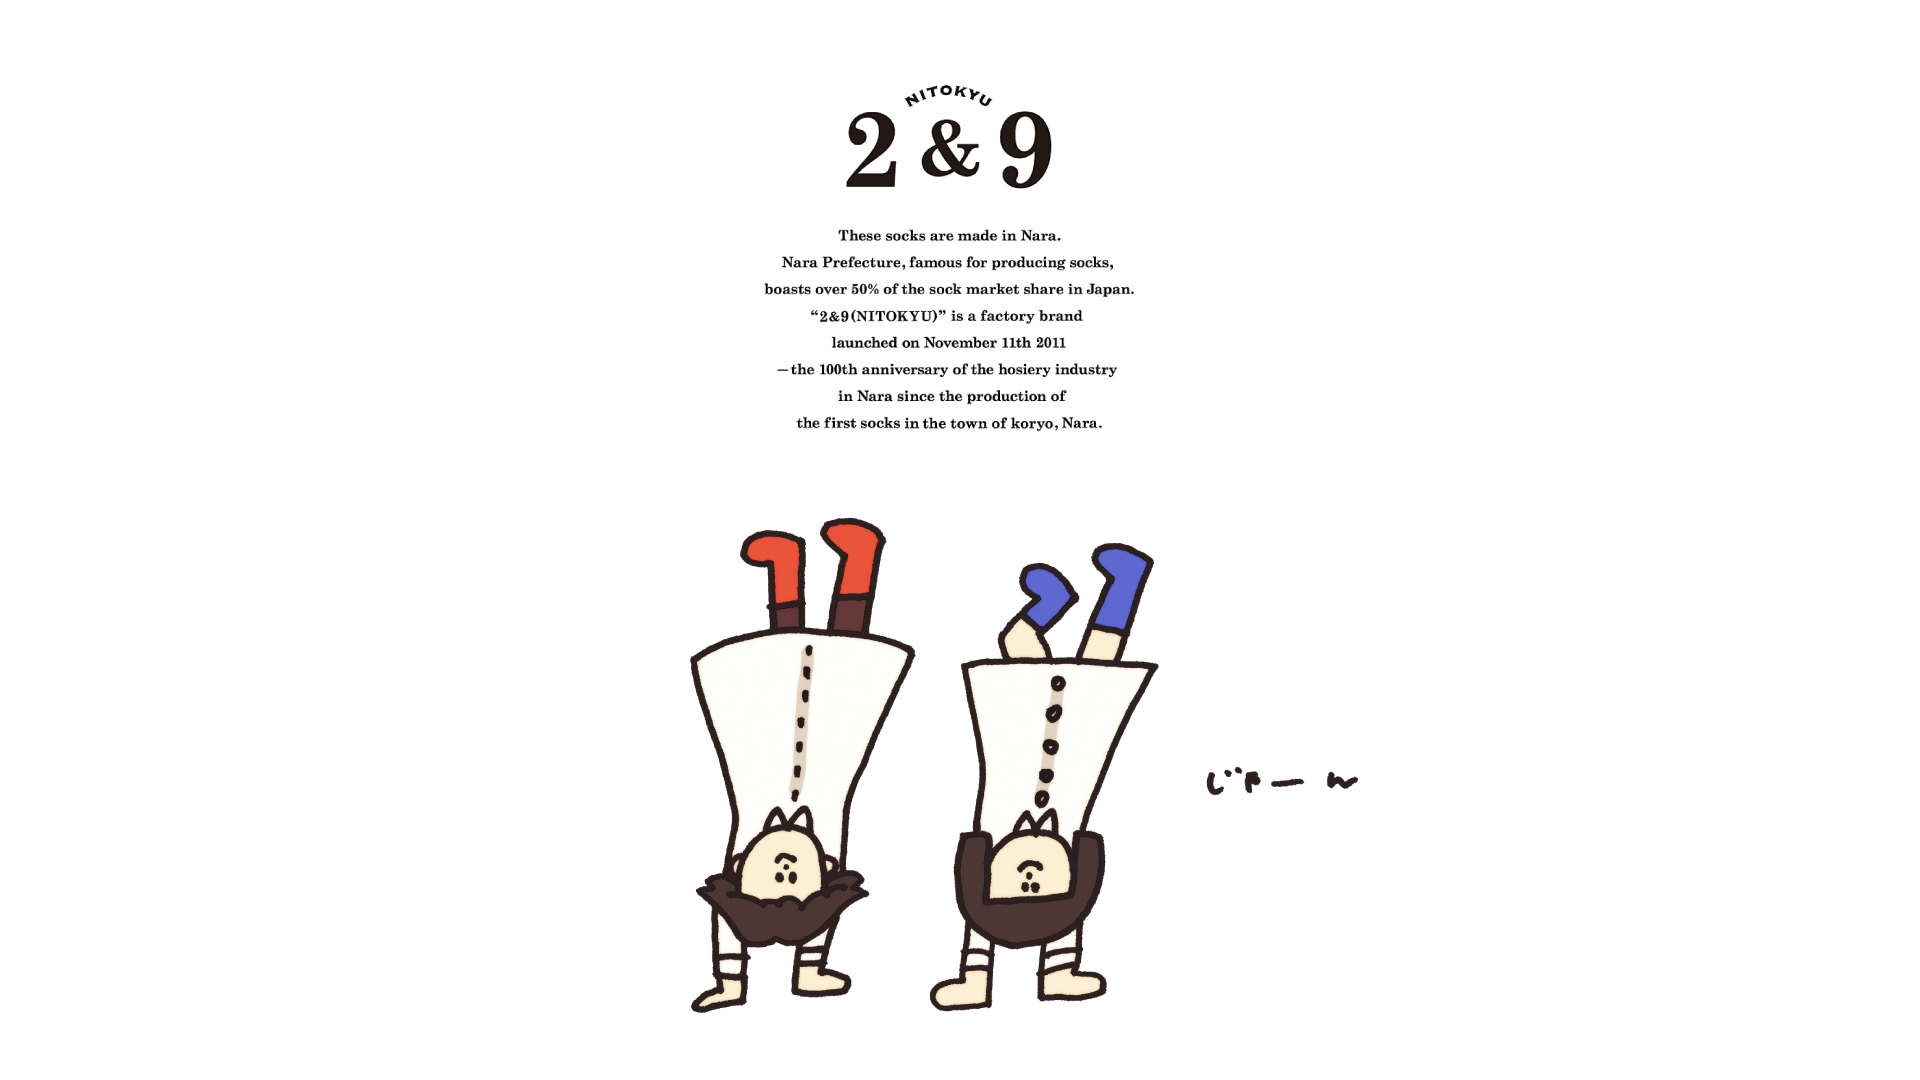
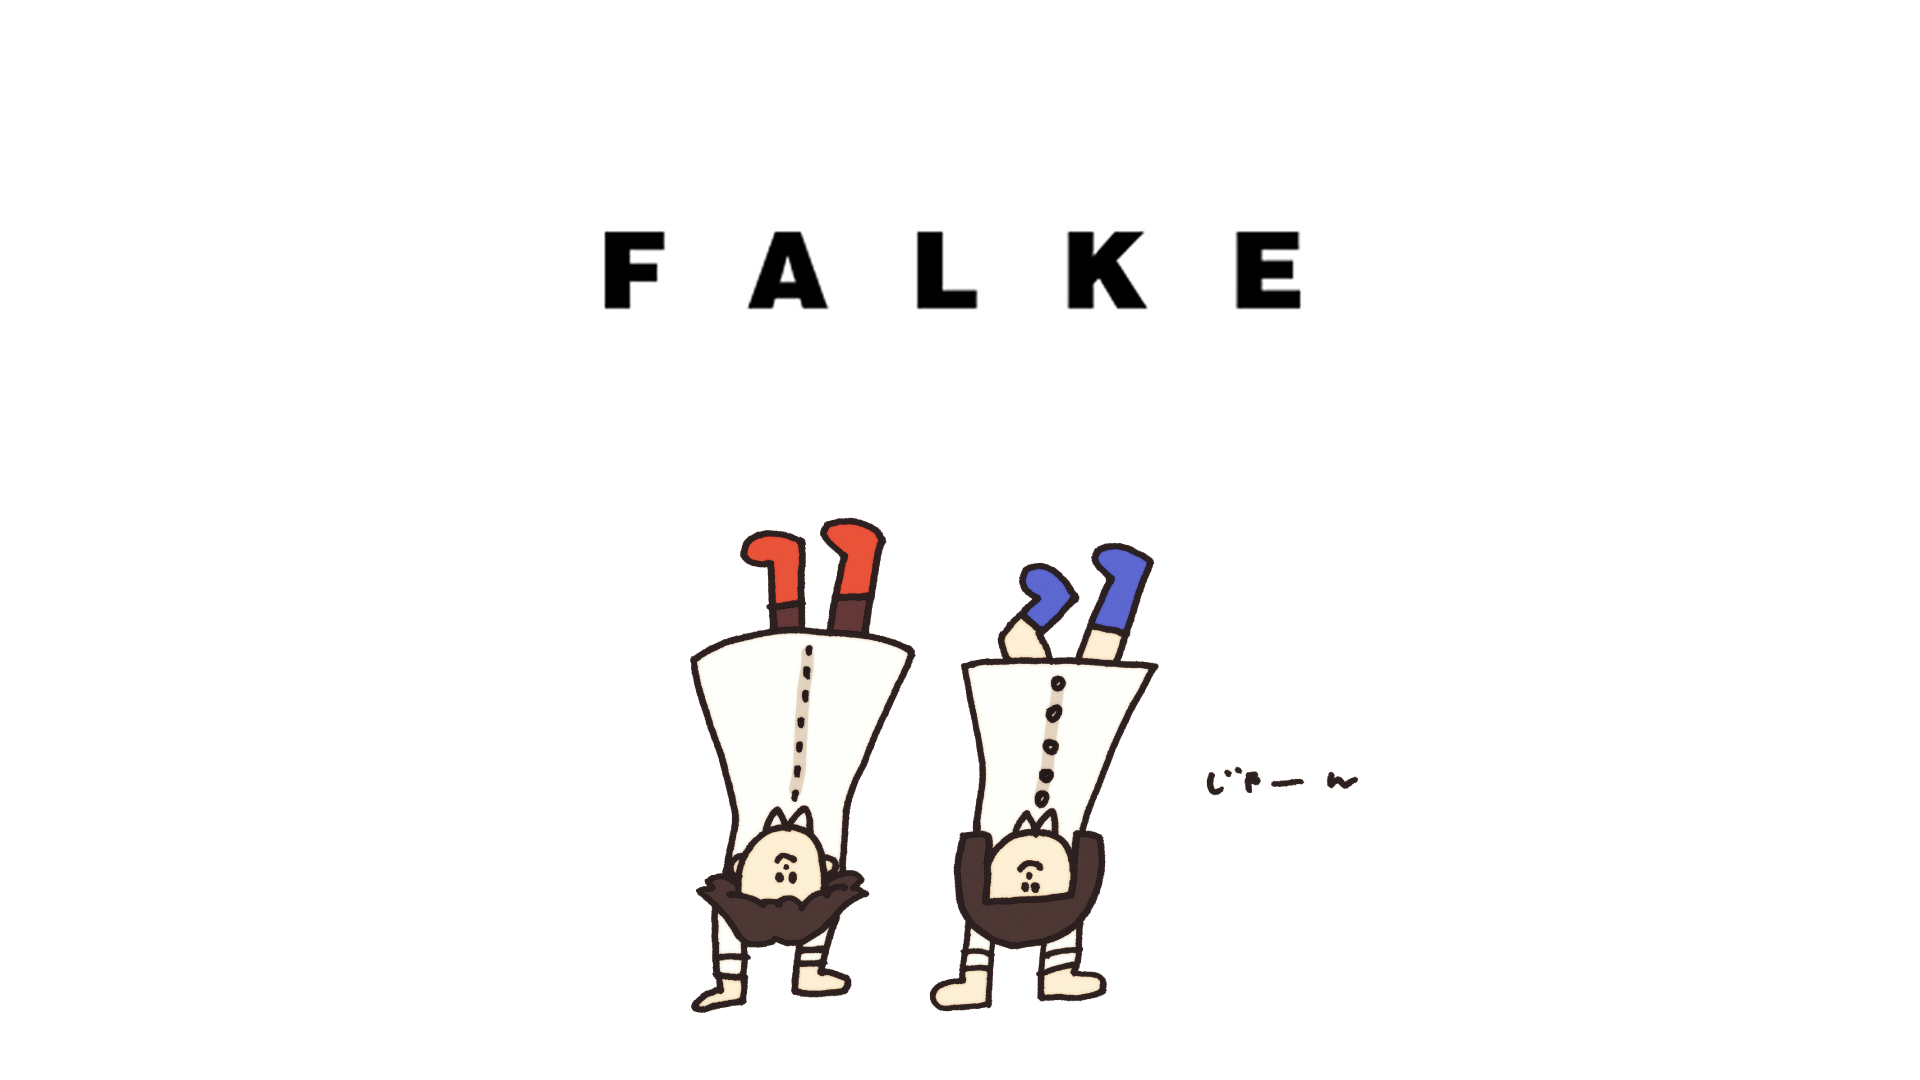
fix

diff --git a/7.html b/7.html
@@ -6,22 +6,15 @@
   <link rel="stylesheet" type="text/css" href="./style.css">
 </head>
 <body>
-  <header>
-    <svg id="q-mark" xmlns="http://www.w3.org/2000/svg" width="81.35mm" height="89.46mm" viewBox="0 0 230.59 253.6">
-      <path d="M257,246.43q-3.79,9.3-13.68,15.7a41.45,41.45,0,0,1-23,6.4q-18.64,0-31.74-8.88A104.32,104.32,0,0,1,165,237.38q-12.82,2.91-30.57,2.91a158.82,158.82,0,0,1-42.8-5.52,85.21,85.21,0,0,1-34.21-18.32Q43,203.65,34.73,183t-8.3-50.88q0-27,6.41-48.71T52.93,46.48Q66.61,31.22,87.87,23.08t51-8.14a153.9,153.9,0,0,1,43.24,5.82,85.35,85.35,0,0,1,34.36,19Q230.82,53,239,74.54t8.15,52.93q0,34.9-12.52,60t-38.14,39.11a70.55,70.55,0,0,0,16.89,13.53,39.08,39.08,0,0,0,19.51,5.09q11.06,0,16.31-7.83Zm-81.23-48.65q15.14-9.61,21-27.52t5.82-40.68q0-27.14-4.52-44.65T185.37,57.2a43.63,43.63,0,0,0-19.7-14.3,76.09,76.09,0,0,0-25.53-4.08q-18.1,0-31.23,5.39A54.3,54.3,0,0,0,87.32,59.78a64.49,64.49,0,0,0-12.4,25A131.91,131.91,0,0,0,71,118.6a235.76,235.76,0,0,0,2.26,34.95,120.48,120.48,0,0,0,6.48,25.63q8.44-10,17.76-13.92a49.56,49.56,0,0,1,19.22-3.88,55.38,55.38,0,0,1,17.62,2.77,63.19,63.19,0,0,1,15.58,7.71,89.94,89.94,0,0,1,13.68,11.5A139.1,139.1,0,0,1,175.79,197.78Zm-91.13-4.86Q92.81,207,105.34,212.3t29.12,5.28q4.37,0,8.44-.29a50.23,50.23,0,0,0,7.86-1.18q-11.07-16.14-21-25.39a33.37,33.37,0,0,0-23.58-9.25,24.36,24.36,0,0,0-10.48,2.64A36.34,36.34,0,0,0,84.66,192.92Z" transform="translate(-26.43 -14.93)" style="fill: #f8b62d"/>
-    </svg>
-    <p>おすなおして</p>
-  </header>
   <div class="clear"></div>
   <div id="wrap">
     <div class="button">
       <a href="a4.html">
-        <svg xmlns="http://www.w3.org/2000/svg" xmlns:xlink="http://www.w3.org/1999/xlink" width="663.89" height="691.56" viewBox="0 0 663.89 691.56"><defs><clipPath id="a" transform="translate(-2320.49 -379.54)"><path d="M2563.16,458.84V783.95s-144.32-.21-146.54,103.07c0,0-2.18,123.45,155.45,123.45,0,0,142.37-4.62,194-15.91,0,0,50.16-8.47,54.71-42.33,0,0,30.68-461.76,30.68-493.39H2563.16Z" style="fill:none"/></clipPath></defs><title>くつした診断中身</title><g style="clip-path:url(#a)"><rect x="14.63" width="649.27" height="649.27" style="fill:#c30d23"/><polygon points="195.78 389.61 241.1 691.56 0 523.35 34.81 408.53 195.78 389.61" style="fill:#e83828"/><polygon points="224.52 147.2 575.12 154.5 507.56 31.29 214.37 54.41 224.52 147.2" style="fill:#e83828"/><polygon points="432.42 647.08 410.12 491.04 543.87 491.04 543.87 663.8 432.42 647.08" style="fill:#e83828"/></g><path d="M2646.89,707.69a3.2,3.2,0,0,0-.8-2.64c-5.84-8.8-13.92-20.72-17.76-26.48a4.8,4.8,0,0,1,4.08-7.68,4.36,4.36,0,0,1,3.84,2.4c3.36,5.84,9,14.16,14.56,22.48a1.16,1.16,0,0,0,1,.64,1,1,0,0,0,1-.56,228.69,228.69,0,0,0,14.48-22.64,3.92,3.92,0,0,1,3.6-2.24c2.56,0,5.36,2.32,5.36,5a4.37,4.37,0,0,1-.72,2.32c-3.6,5.76-12.56,19.12-17.76,26.4a4.07,4.07,0,0,0-1,3.12c0,4.8.08,12.88,0.08,19.36,0,3-2.48,4.48-4.88,4.48-2.56,0-5-1.52-5-4.72v-19.2Z" transform="translate(-2320.49 -379.54)" style="fill:#fff"/><path d="M2704.33,679c-8,0-9.68.16-9.92,3.6-0.16,1.92-.08,5.84-0.16,10.48,0,1.6.08,1.6,9.92,1.6,3.68,0,7.52,0,9-.08,4.48-.24,4.48,4,4.48,4.24,0,2.32-1.44,4.56-4.24,4.56H2713c-2-.16-5-0.24-8.08-0.24-9.92,0-10.72.08-10.72,1.76,0,11.92.08,13.76,0.24,15.12,0.4,3.68,1.68,3.84,13,3.84,4.72,0,9.84-.08,11.36-0.16h0.4a4.06,4.06,0,0,1,4.32,4.08c0,2.16-1.6,4.32-5,4.48-1,.08-5.68.16-10.32,0.16s-9.2-.08-10.24-0.16c-7.36-.56-11.92-3.2-12.24-10.24-0.16-3.36-.16-9.28-0.16-15.76,0-9.76.08-20.64,0.24-25.68,0.16-6.4,4.32-9.76,10.8-10.08,1.44-.08,6-0.16,10.48-0.16s9,0.08,10.16.16c3,0.16,4.48,2.16,4.48,4.24a4.41,4.41,0,0,1-4.72,4.32S2709.77,679,2704.33,679Z" transform="translate(-2320.49 -379.54)" style="fill:#fff"/><path d="M2748.57,732.33c-13,0-19.76-7.44-19.76-11.36a4.68,4.68,0,0,1,4.64-4.56,4.31,4.31,0,0,1,3.52,2c2.08,3,6,5.36,11.68,5.36,8.8,0,10.72-6,10.72-8.56,0-3.2-1.92-6.64-6.08-9-3.52-2-7.84-4.4-12.08-6.32-7-3.2-10.24-8.88-10.24-14.4,0-7.76,6.24-15.2,17.28-15.2s17.36,5.28,17.36,9a4.67,4.67,0,0,1-4.48,4.64,5.08,5.08,0,0,1-3.76-1.92c-1.52-1.68-4.24-3.68-9.2-3.68-5.12,0-8.24,3.2-8.24,6.8,0,2.48,1.52,5.2,5,7,3.28,1.76,8.8,4.32,12.48,6.32,8,4.4,11.36,10.48,11.36,16.4C2768.81,723.53,2761.53,732.33,2748.57,732.33Z" transform="translate(-2320.49 -379.54)" style="fill:#fff"/></svg>
-      </div>
+        <img class="osuna" src="./img/osuna.png">
     </a>
     <div class="button">
       <a href="6.html">
-        <svg xmlns="http://www.w3.org/2000/svg" xmlns:xlink="http://www.w3.org/1999/xlink" width="663.89" height="691.56" viewBox="0 0 663.89 691.56"><defs><clipPath id="a" transform="translate(-2972.35 -379.54)"><path d="M3215,458.84V783.95S3070.7,783.74,3068.47,887c0,0-2.18,123.45,155.45,123.45,0,0,142.37-4.62,194-15.91,0,0,50.16-8.47,54.71-42.33,0,0,30.68-461.76,30.68-493.39H3215Z" style="fill:none"/></clipPath></defs><title>くつした診断中身</title><g style="clip-path:url(#a)"><rect x="14.63" width="649.27" height="649.27" style="fill:#172a88"/><polygon points="195.78 389.61 241.1 691.56 0 523.35 34.81 408.53 195.78 389.61" style="fill:#036eb8"/><polygon points="224.52 147.2 575.12 154.5 507.56 31.29 214.37 54.41 224.52 147.2" style="fill:#036eb8"/><polygon points="432.42 647.08 410.12 491.04 543.87 491.04 543.87 663.8 432.42 647.08" style="fill:#036eb8"/></g><path d="M3292.71,731.46c0.16-8.24.24-17.92,0.24-27.12,0-8-.08-15.6-0.16-21.6v-0.32c0-5.6,3.12-7.84,6.64-7.84a9.66,9.66,0,0,1,7.84,4.32c5,8,18.4,33,24.48,42.08a2.29,2.29,0,0,0,1.12,1.12c0.24,0,.56-0.24.56-3.36,0-7.52-.24-32.48-0.48-39.84-0.08-2.64,2.08-4.32,4.64-4.32,2.32,0,4.64,1.44,4.64,4.16v0.16c-0.16,5.6-.24,13.36-0.24,21.36,0,10.16.08,20.64,0.24,27.6V728a7.23,7.23,0,0,1-7.28,7.6,8.16,8.16,0,0,1-6.88-4c-5.6-8.88-20.56-36.24-24.88-43.52-0.32-.48-0.88-1.52-1.28-1.52s-0.48.8-.48,4.48c0,8.32.24,31.92,0.48,40.4v0.16c0,2.56-2.24,3.76-4.56,3.76s-4.64-1.28-4.64-3.84v-0.08Z" transform="translate(-2972.35 -379.54)" style="fill:#fff"/><path d="M3353.43,705.13c0-18,13.2-31,30.8-31s30.88,13,30.88,31c0,18.64-13.28,31-30.88,31S3353.43,723.78,3353.43,705.13Zm52.24,0c0-13.84-9.6-22.8-21.44-22.8s-21.44,9-21.44,22.8,9.6,22.64,21.44,22.64S3405.67,718.89,3405.67,705.13Z" transform="translate(-2972.35 -379.54)" style="fill:#fff"/></svg>
+        <img class="oshite" src="./img/oshite.png">
       </a>
     </div>
   </div>

diff --git a/style.css b/style.css
@@ -2,6 +2,9 @@ html,
 body {
   margin: 0;
   padding: 0;
+  width: 100%;
+  height: 100%;
+  overflow: hidden;
 }
 
 body.top {
@@ -26,8 +29,8 @@ img {
 
 header {
   margin: 0 auto;
-  padding: 20px;
-  margin-top: 100px;
+  padding: 0 60px;
+  margin-top: 50px;
   overflow: hidden;
 }
 
@@ -36,7 +39,7 @@ header #q-mark {
   height: 100px;
   padding: 0;
   float: left;
-  margin-right: 20px;
+  margin-right: 50px;
 }
 
 header p {
@@ -58,6 +61,19 @@ header p {
 .button svg {
   margin: 3%;
   padding: 0;
-  width: 38%;
+  width: 44%;
+  float: left;
+}
+
+.button img.osuna {
+  margin: 3%;
+  padding: 0;
+  width: 54%;
+  float: left;
+}
+.button img.oshite {
+  margin: 3%;
+  padding: 0;
+  width: 34%;
   float: left;
 }
